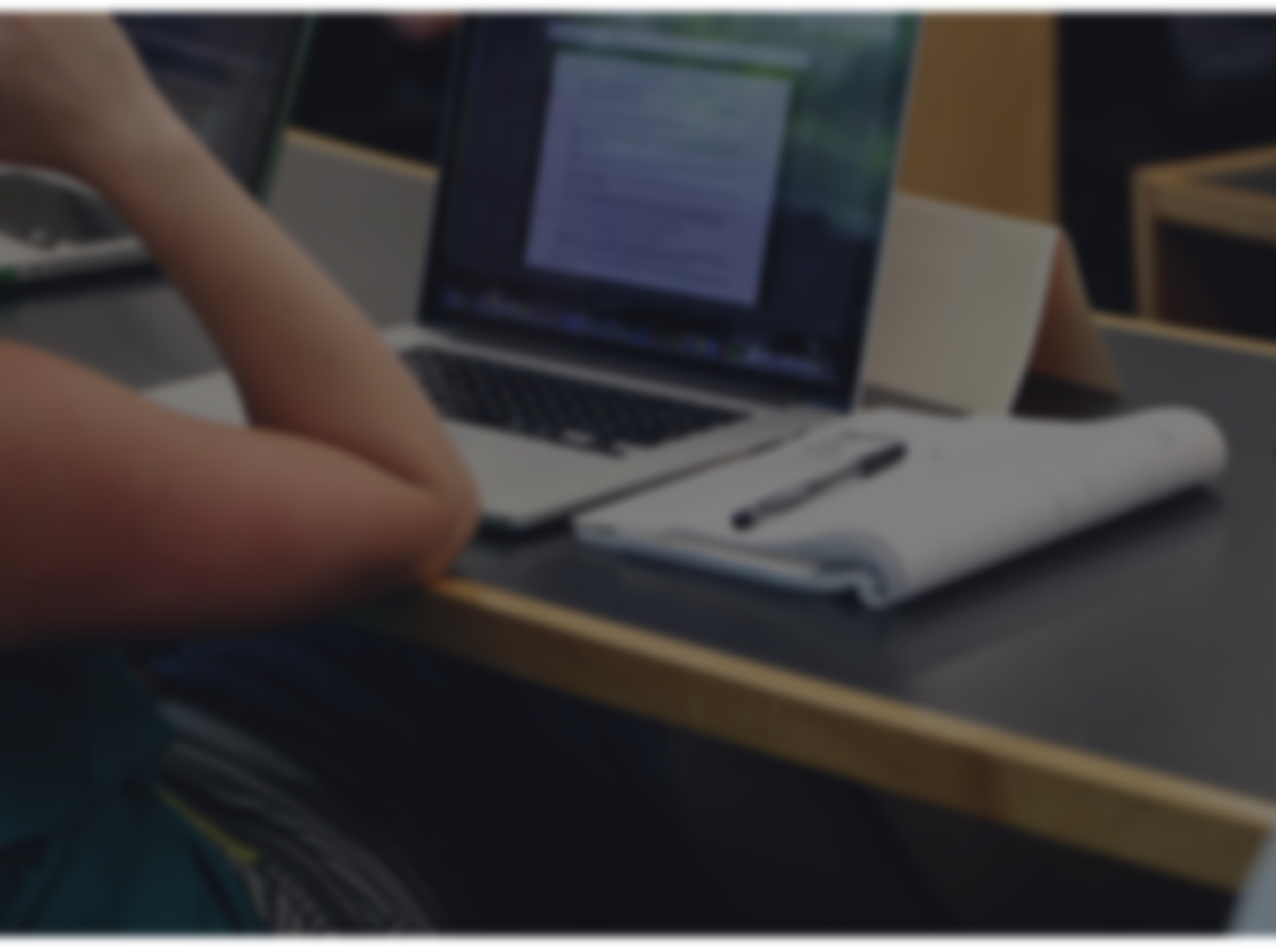
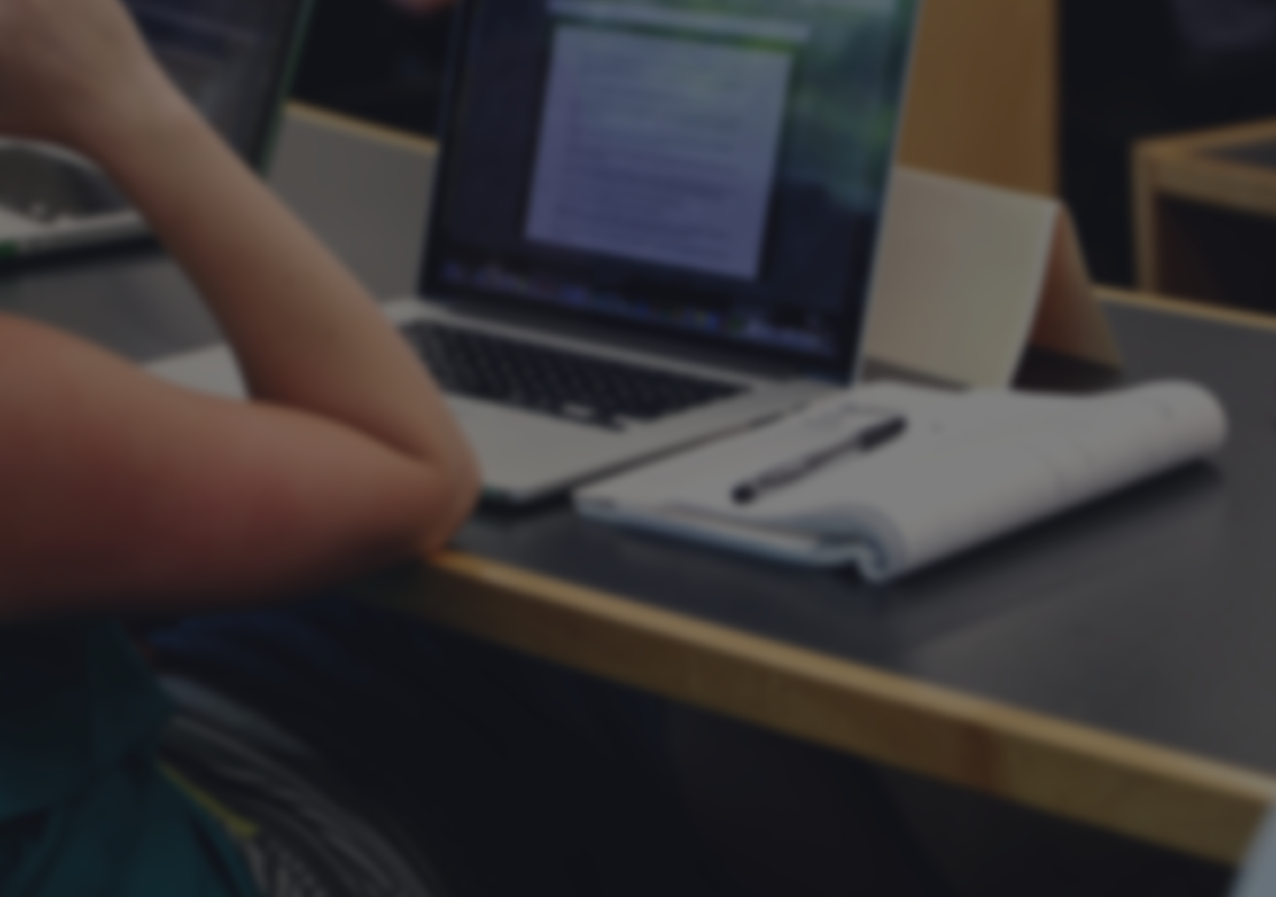
i1 wip

diff --git a/styles/index.min.css b/styles/index.min.css
@@ -1,1 +1,1 @@
-.index_1_intro{height:660px;background:url("../assets/images/glavnaya-hero-image.png") no-repeat;display:flex;flex-direction:column;align-items:center}.index_1_intro h1{margin-top:111px;color:#fff;font-size:48px;max-width:820px;text-align:center;line-height:59px;letter-spacing:1px}.index_1_intro p{max-width:898px;font-size:24px;color:#fff;text-align:center;line-height:34px;margin-top:13px}.index_1_intro div{margin-top:42px}.index_1_intro div .button{padding:25px 0px}@media (min-width: 768px){.index_1_intro{background:url("../assets/images/glavnaya-hero-image@2x.png") no-repeat}}@media (min-width: 992px){.index_1_intro{background:url("../assets/images/glavnaya-hero-image@3x.png") no-repeat;background-size:100%;background-position:-20px}}.index_2_numbers{height:623px}.index_2_numbers h1{font-size:36px;font-family:'Open Sans SemiBold';margin-top:130px;text-align:center}.index_2_numbers span{font-size:80px;color:#c02482;padding-left:100px;background-repeat:no-repeat;background-position:11px 16px;display:inline-block}.index_2_numbers .cert{background-image:url("../assets/images/certificate_icon.png")}.index_2_numbers .graduation{margin-top:110px;background-image:url("../assets/images/graduation_icon.png")}.index_2_numbers .presentation{background-image:url("../assets/images/presentation_icon.png")}.index_2_numbers .portrait{margin-top:110px;background-image:url("../assets/images/portrait_icon.png")}.index_2_numbers .column_1{display:flex;flex-direction:column}.index_2_numbers .column_2{display:flex;flex-direction:column}.index_2_numbers p{max-width:240px;font-size:24px;text-align:center;margin-left:30px;margin-top:26px}.index_2_numbers .i2_wrapper{margin-top:65px;padding:0px 198px 0px 273px;display:flex;flex-direction:row;justify-content:space-around}.index_3_experts{height:950px;display:flex;flex-direction:column;align-items:center;margin-bottom:28px}.index_3_experts h1{font-size:36px;font-family:'Open Sans SemiBold';margin-top:117px;text-align:center}.index_3_experts .button{display:block;width:188px}.index_3_experts .i3_experts_wrapper{display:flex;flex-direction:row}.index_3_experts .i3_experts_wrapper>div{display:flex;flex-direction:column;max-width:233px;margin:55px 0px 57px 0px;text-align:center}.index_3_experts .i3_experts_wrapper>div:nth-child(2){margin-left:115px;margin-right:115px}.index_3_experts .i3_experts_wrapper>div h2{font-size:18px;line-height:26px;font-weight:550;margin-bottom:10px}.index_3_experts .i3_experts_wrapper>div h2 span{font-size:24px;display:block;font-weight:600}.index_3_experts .i3_experts_wrapper>div img{margin-bottom:22px;height:233px;width:233px;border-radius:50%}.index_3_experts .i3_experts_wrapper>div p{line-height:20px}.index_3_experts .i3_video{position:relative}.index_3_experts .i3_play_background{opacity:0;position:absolute;top:0px;height:233px;width:233px;background-color:rgba(192,36,130,0.6);border-radius:50%;display:flex;flex-direction:column;text-align:center;cursor:pointer}.index_3_experts .i3_play_background:hover{opacity:1;cursor:pointer}.index_3_experts .i3_play_background p{display:block;margin:0px auto 0px auto;color:white;font-size:18px;font-family:'Open Sans', sans-serif;width:80px}.index_4_kbase{display:flex;flex-direction:column;align-items:center;color:#fff;height:890px;background-image:url("../assets/images/i4_background.png")}.index_4_kbase h1{font-size:36px;font-family:'Open Sans SemiBold';text-align:center;margin-top:95px}.index_4_kbase p{font-size:24px;text-align:center;max-width:890px;margin-top:54px;line-height:34px}.index_4_kbase .i4_icons{display:flex;flex-direction:row}.index_4_kbase .i4_icons p{margin-top:40px;font-size:18px}.index_4_kbase .i4_icons span{font-size:60px;background-repeat:no-repeat;padding-left:100px}.index_4_kbase .i4_icons div{margin-top:50px;padding:0px 60px 0px 60px}.index_4_kbase .i4_icons div:nth-child(2){border-left:1px solid #dfdfdf;border-right:1px solid #dfdfdf}.index_4_kbase .i4_icons .imac{background-image:url("../assets/images/imac_icon.png");background-position:-2px 12px}.index_4_kbase .i4_icons .headphones{background-image:url("../assets/images/headphones_icon.png");background-position:-6px -1px}.index_4_kbase .i4_icons .pie_charts{background-image:url("../assets/images/pie_charts_icon.png");background-position:-4px -6px}.index_4_kbase .button{padding:25px 0px;margin-top:40px}.index_5_student_feedback{display:flex;flex-direction:column;align-items:center}.index_5_student_feedback h1{letter-spacing:-0.7px;margin-top:135px;font-size:36px;font-family:'Open Sans SemiBold'}.index_5_student_feedback p{max-width:1067px;font-family:'Open Sans';font-style:italic;font-weight:300;font-size:36px;text-align:center;line-height:52px}.index_5_student_feedback .i5_signature{margin-top:10px;position:relative;padding-left:100px}.index_5_student_feedback .i5_signature span{letter-spacing:0.55px;font-size:18px;font-family:'Open Sans SemiBold';text-align:left}.index_5_student_feedback .i5_signature p{font-style:normal;font-family:'Open Sans Light';font-size:16px;text-align:left;line-height:6px}.index_5_student_feedback .i5_signature:after{position:absolute;left:-2px;top:-14px;display:block;content:' ';height:82px;width:82px;background-image:url("../assets/images/i5_portrait.png");background-color:yellow}.index_5_student_feedback .i5-slider{margin-top:70px;width:107px;height:17px;display:flex;justify-content:space-between}.index_5_student_feedback .i5-slider div{cursor:pointer;height:17px;width:17px;border-radius:50%;background-color:#dfdfdf}.index_5_student_feedback .i5-slider .active{background-color:#00acbc}.index_6_our_programs{display:flex;flex-direction:column;align-items:center;margin-bottom:135px}.index_6_our_programs h1{letter-spacing:-0.7px;margin-top:137px;font-size:36px;font-family:'Open Sans SemiBold'}.index_6_our_programs .i6_block{margin-top:60px;display:flex;flex-direction:row;justify-content:space-between}.index_6_our_programs .i6_block div:nth-child(1){padding-bottom:15px;line-height:31px;font-family:'Open Sans', sans-serif;font-size:24px;border-bottom:5px solid #c02482;width:auto;align-self:flex-start}.index_6_our_programs .i6_block ul{font-size:18px;margin-top:0px;margin-left:auto;width:65%}.index_6_our_programs .i6_block ul li{list-style:none}.index_6_our_programs .i6_block ul li span{display:inline-block;padding-left:35px;background-image:url("../assets/images/book_icon.png");background-repeat:no-repeat;background-position:0px;text-decoration:underline;margin-top:5px}.index_6_our_programs .i6_block ul li span:nth-child(1){margin-top:0px}.index_6_our_programs .i6_block ul li span a{margin-top:5px;display:inline-block;color:#c02482;text-decoration:underline}.index_6_our_programs .i6_block ul li span .new{position:relative}.index_6_our_programs .i6_block ul li span .new:after{content:"Новая программа";font-size:12px;color:#fff;text-transform:uppercase;text-align:center;font-family:'Open Sans SemiBold';letter-spacing:0.7px;line-height:21px;display:inline-block;margin-left:10px;right:1px;width:150px;height:20px;border-radius:10px;background-color:#00acbc}.index_6_our_programs .i6_block ul li p{margin-top:5px;margin-left:35px}.index_7_contact_form{padding:90px 200px 85px 200px;display:flex;flex-direction:row;background-image:url("../assets/images/i7-background.png")}.index_7_contact_form .i7_wrapper{display:flex}.index_7_contact_form .i7_wrapper div{max-width:500px;display:flex;flex-direction:column;flex-wrap:wrap}.index_7_contact_form .i7_wrapper div:nth-child(1){padding-right:40px;max-width:487px}.index_7_contact_form .i7_wrapper div:nth-child(1) h1{margin-top:-10px}.index_7_contact_form .i7_wrapper div:nth-child(1) p:nth-child(2){max-width:434px}.index_7_contact_form .i7_wrapper div:nth-child(2){padding-left:20px}.index_7_contact_form .i7_wrapper div:nth-child(2)>form{min-width:400px;margin-left:10%;margin-right:10%;display:flex;flex-direction:row;align-items:flex-end;flex-wrap:wrap;justify-content:space-between}.index_7_contact_form .i7_wrapper div:nth-child(2) input{outline:none;padding-left:33px;color:#4a4a4a;background-color:rgba(255,255,255,0.8);font-size:18px;display:inline-block;height:50px;border-radius:35px;width:377px;border:none;margin-bottom:20px}.index_7_contact_form .i7_wrapper div:nth-child(2) input[name='name']{width:157px}.index_7_contact_form .i7_wrapper div:nth-child(2) input[name='lastname']{width:157px}.index_7_contact_form .i7_wrapper div:nth-child(2) input[type='submit']{width:400px;height:70px;margin:0px;margin-top:40px;background-color:#00acbc;color:#fff}.index_7_contact_form .i7_wrapper div select{outline:none;padding-left:33px;color:#4a4a4a;background-color:rgba(255,255,255,0.8);font-size:18px;width:400px;border-radius:35px;border:none;height:50px}.index_7_contact_form h1{font-family:'Open Sans SemiBold';font-size:48px;color:#fff}.index_7_contact_form p{font-size:24px;color:#fff}.index_footer{display:flex;flex-direction:column;align-items:center}.index_footer img{margin-top:115px}.index_footer p{margin:10px 50px 10px 50px}.index_footer nav ul{list-style:none;display:flex;justify-content:space-between;max-width:800px;margin:0px 100px 0px 100px}.index_footer nav ul li{margin:50px 20px 50px 20px}.index_footer .social-networks{padding:0px;max-width:250px;margin:30px 100px 30px 100px;list-style:none;display:flex;justify-content:space-between}.index_footer .social-networks li{width:40px;height:40px;border-radius:50%;background-repeat:no-repeat;margin-right:20px;cursor:pointer}.index_footer .social-networks .social-vk{background-image:url("../assets/images/social-vk.png")}.index_footer .social-networks .social-fb{background-image:url("../assets/images/social-fb.png")}.index_footer .social-networks .social-twi{background-image:url("../assets/images/social-twi.png")}.index_footer .social-networks .social-inst{background-image:url("../assets/images/social-inst.png")}.index_footer .copyright{color:#dfdfdf;margin-bottom:40px}
+.index_1_intro{height:460px;background:url("../assets/images/glavnaya-hero-image.png") no-repeat;background-size:cover;background-position:center;display:flex;flex-direction:column;align-items:center}.index_1_intro h1{margin-top:55px;max-width:70%;color:#fff;font-size:25px;text-align:center}.index_1_intro p{max-width:70%;font-size:15px;color:#fff;text-align:center;margin-top:13px}.index_1_intro div{margin-top:20px}.index_1_intro div .button{padding:15px 0px}@media (min-width: 768px){.index_1_intro{height:660px;display:flex;flex-direction:column;align-items:center;background:url("../assets/images/glavnaya-hero-image@2x.png") no-repeat;background-size:cover;background-position:center}.index_1_intro h1{margin-top:70px;color:#fff;font-size:36px;max-width:820px;text-align:center;letter-spacing:1px}.index_1_intro p{max-width:898px;font-size:24px;color:#fff;text-align:center;line-height:34px;margin-top:13px}}@media (min-width: 992px){.index_1_intro{height:660px;display:flex;flex-direction:column;align-items:center;background:url("../assets/images/glavnaya-hero-image@3x.png") no-repeat;background-size:cover;background-position:center}.index_1_intro h1{margin-top:111px;color:#fff;font-size:48px;max-width:820px;text-align:center;line-height:59px;letter-spacing:1px}.index_1_intro p{max-width:898px;font-size:24px;color:#fff;text-align:center;line-height:34px;margin-top:13px}}.index_2_numbers{height:623px}.index_2_numbers h1{font-size:36px;font-family:'Open Sans SemiBold';margin-top:130px;text-align:center}.index_2_numbers span{font-size:80px;color:#c02482;padding-left:100px;background-repeat:no-repeat;background-position:11px 16px;display:inline-block}.index_2_numbers .cert{background-image:url("../assets/images/certificate_icon.png")}.index_2_numbers .graduation{margin-top:110px;background-image:url("../assets/images/graduation_icon.png")}.index_2_numbers .presentation{background-image:url("../assets/images/presentation_icon.png")}.index_2_numbers .portrait{margin-top:110px;background-image:url("../assets/images/portrait_icon.png")}.index_2_numbers .column_1{display:flex;flex-direction:column}.index_2_numbers .column_2{display:flex;flex-direction:column}.index_2_numbers p{max-width:240px;font-size:24px;text-align:center;margin-left:30px;margin-top:26px}.index_2_numbers .i2_wrapper{margin-top:65px;padding:0px 198px 0px 273px;display:flex;flex-direction:row;justify-content:space-around}.index_3_experts{height:950px;display:flex;flex-direction:column;align-items:center;margin-bottom:28px}.index_3_experts h1{font-size:36px;font-family:'Open Sans SemiBold';margin-top:117px;text-align:center}.index_3_experts .button{display:block;width:188px}.index_3_experts .i3_experts_wrapper{display:flex;flex-direction:row}.index_3_experts .i3_experts_wrapper>div{display:flex;flex-direction:column;max-width:233px;margin:55px 0px 57px 0px;text-align:center}.index_3_experts .i3_experts_wrapper>div:nth-child(2){margin-left:115px;margin-right:115px}.index_3_experts .i3_experts_wrapper>div h2{font-size:18px;line-height:26px;font-weight:550;margin-bottom:10px}.index_3_experts .i3_experts_wrapper>div h2 span{font-size:24px;display:block;font-weight:600}.index_3_experts .i3_experts_wrapper>div img{margin-bottom:22px;height:233px;width:233px;border-radius:50%}.index_3_experts .i3_experts_wrapper>div p{line-height:20px}.index_3_experts .i3_video{position:relative}.index_3_experts .i3_play_background{opacity:0;position:absolute;top:0px;height:233px;width:233px;background-color:rgba(192,36,130,0.6);border-radius:50%;display:flex;flex-direction:column;text-align:center;cursor:pointer}.index_3_experts .i3_play_background:hover{opacity:1;cursor:pointer}.index_3_experts .i3_play_background p{display:block;margin:0px auto 0px auto;color:white;font-size:18px;font-family:'Open Sans', sans-serif;width:80px}.index_4_kbase{display:flex;flex-direction:column;align-items:center;color:#fff;height:890px;background-image:url("../assets/images/i4_background.png")}.index_4_kbase h1{font-size:36px;font-family:'Open Sans SemiBold';text-align:center;margin-top:95px}.index_4_kbase p{font-size:24px;text-align:center;max-width:890px;margin-top:54px;line-height:34px}.index_4_kbase .i4_icons{display:flex;flex-direction:row}.index_4_kbase .i4_icons p{margin-top:40px;font-size:18px}.index_4_kbase .i4_icons span{font-size:60px;background-repeat:no-repeat;padding-left:100px}.index_4_kbase .i4_icons div{margin-top:50px;padding:0px 60px 0px 60px}.index_4_kbase .i4_icons div:nth-child(2){border-left:1px solid #dfdfdf;border-right:1px solid #dfdfdf}.index_4_kbase .i4_icons .imac{background-image:url("../assets/images/imac_icon.png");background-position:-2px 12px}.index_4_kbase .i4_icons .headphones{background-image:url("../assets/images/headphones_icon.png");background-position:-6px -1px}.index_4_kbase .i4_icons .pie_charts{background-image:url("../assets/images/pie_charts_icon.png");background-position:-4px -6px}.index_4_kbase .button{padding:25px 0px;margin-top:40px}.index_5_student_feedback{display:flex;flex-direction:column;align-items:center}.index_5_student_feedback h1{letter-spacing:-0.7px;margin-top:135px;font-size:36px;font-family:'Open Sans SemiBold'}.index_5_student_feedback p{max-width:1067px;font-family:'Open Sans';font-style:italic;font-weight:300;font-size:36px;text-align:center;line-height:52px}.index_5_student_feedback .i5_signature{margin-top:10px;position:relative;padding-left:100px}.index_5_student_feedback .i5_signature span{letter-spacing:0.55px;font-size:18px;font-family:'Open Sans SemiBold';text-align:left}.index_5_student_feedback .i5_signature p{font-style:normal;font-family:'Open Sans Light';font-size:16px;text-align:left;line-height:6px}.index_5_student_feedback .i5_signature:after{position:absolute;left:-2px;top:-14px;display:block;content:' ';height:82px;width:82px;background-image:url("../assets/images/i5_portrait.png");background-color:yellow}.index_5_student_feedback .i5-slider{margin-top:70px;width:107px;height:17px;display:flex;justify-content:space-between}.index_5_student_feedback .i5-slider div{cursor:pointer;height:17px;width:17px;border-radius:50%;background-color:#dfdfdf}.index_5_student_feedback .i5-slider .active{background-color:#00acbc}.index_6_our_programs{display:flex;flex-direction:column;align-items:center;margin-bottom:135px}.index_6_our_programs h1{letter-spacing:-0.7px;margin-top:137px;font-size:36px;font-family:'Open Sans SemiBold'}.index_6_our_programs .i6_block{margin-top:60px;display:flex;flex-direction:row;justify-content:space-between}.index_6_our_programs .i6_block div:nth-child(1){padding-bottom:15px;line-height:31px;font-family:'Open Sans', sans-serif;font-size:24px;border-bottom:5px solid #c02482;width:auto;align-self:flex-start}.index_6_our_programs .i6_block ul{font-size:18px;margin-top:0px;margin-left:auto;width:65%}.index_6_our_programs .i6_block ul li{list-style:none}.index_6_our_programs .i6_block ul li span{display:inline-block;padding-left:35px;background-image:url("../assets/images/book_icon.png");background-repeat:no-repeat;background-position:0px;text-decoration:underline;margin-top:5px}.index_6_our_programs .i6_block ul li span:nth-child(1){margin-top:0px}.index_6_our_programs .i6_block ul li span a{margin-top:5px;display:inline-block;color:#c02482;text-decoration:underline}.index_6_our_programs .i6_block ul li span .new{position:relative}.index_6_our_programs .i6_block ul li span .new:after{content:"Новая программа";font-size:12px;color:#fff;text-transform:uppercase;text-align:center;font-family:'Open Sans SemiBold';letter-spacing:0.7px;line-height:21px;display:inline-block;margin-left:10px;right:1px;width:150px;height:20px;border-radius:10px;background-color:#00acbc}.index_6_our_programs .i6_block ul li p{margin-top:5px;margin-left:35px}.index_7_contact_form{padding:90px 200px 85px 200px;display:flex;flex-direction:row;background-image:url("../assets/images/i7-background.png")}.index_7_contact_form .i7_wrapper{display:flex}.index_7_contact_form .i7_wrapper div{max-width:500px;display:flex;flex-direction:column;flex-wrap:wrap}.index_7_contact_form .i7_wrapper div:nth-child(1){padding-right:40px;max-width:487px}.index_7_contact_form .i7_wrapper div:nth-child(1) h1{margin-top:-10px}.index_7_contact_form .i7_wrapper div:nth-child(1) p:nth-child(2){max-width:434px}.index_7_contact_form .i7_wrapper div:nth-child(2){padding-left:20px}.index_7_contact_form .i7_wrapper div:nth-child(2)>form{min-width:400px;margin-left:10%;margin-right:10%;display:flex;flex-direction:row;align-items:flex-end;flex-wrap:wrap;justify-content:space-between}.index_7_contact_form .i7_wrapper div:nth-child(2) input{outline:none;padding-left:33px;color:#4a4a4a;background-color:rgba(255,255,255,0.8);font-size:18px;display:inline-block;height:50px;border-radius:35px;width:377px;border:none;margin-bottom:20px}.index_7_contact_form .i7_wrapper div:nth-child(2) input[name='name']{width:157px}.index_7_contact_form .i7_wrapper div:nth-child(2) input[name='lastname']{width:157px}.index_7_contact_form .i7_wrapper div:nth-child(2) input[type='submit']{width:400px;height:70px;margin:0px;margin-top:40px;background-color:#00acbc;color:#fff}.index_7_contact_form .i7_wrapper div select{outline:none;padding-left:33px;color:#4a4a4a;background-color:rgba(255,255,255,0.8);font-size:18px;width:400px;border-radius:35px;border:none;height:50px}.index_7_contact_form h1{font-family:'Open Sans SemiBold';font-size:48px;color:#fff}.index_7_contact_form p{font-size:24px;color:#fff}.index_footer{display:flex;flex-direction:column;align-items:center}.index_footer img{margin-top:115px}.index_footer p{margin:10px 50px 10px 50px}.index_footer nav ul{list-style:none;display:flex;justify-content:space-between;max-width:800px;margin:0px 100px 0px 100px}.index_footer nav ul li{margin:50px 20px 50px 20px}.index_footer .social-networks{padding:0px;max-width:250px;margin:30px 100px 30px 100px;list-style:none;display:flex;justify-content:space-between}.index_footer .social-networks li{width:40px;height:40px;border-radius:50%;background-repeat:no-repeat;margin-right:20px;cursor:pointer}.index_footer .social-networks .social-vk{background-image:url("../assets/images/social-vk.png")}.index_footer .social-networks .social-fb{background-image:url("../assets/images/social-fb.png")}.index_footer .social-networks .social-twi{background-image:url("../assets/images/social-twi.png")}.index_footer .social-networks .social-inst{background-image:url("../assets/images/social-inst.png")}.index_footer .copyright{color:#dfdfdf;margin-bottom:40px}

diff --git a/styles/base.min.css b/styles/base.min.css
@@ -1,1 +1,1 @@
-html{box-sizing:border-box}*,*:before,*:after{box-sizing:inherit}.button{margin:auto;display:block;font-size:18px;font-weight:bold;color:#fff;width:290px;text-align:center;max-height:70px;border-radius:35px;background-color:#00acbc;letter-spacing:1px;padding:25px 40px;-ms-filter:"progid:DXImageTransform.Microsoft.Shadow(Strength=15, Direction=0, Color=#000000)";-moz-box-shadow:0 5px 15px rgba(0,0,0,0.3);-webkit-box-shadow:0 5px 15px rgba(0,0,0,0.3);box-shadow:0 5px 15px rgba(0,0,0,0.3);filter:progid:DXImageTransform.Microsoft.Shadow(Strength=15, Direction=135, Color=#000000)}.button:hover{position:relative;top:1px;text-decoration:none;-ms-filter:"progid:DXImageTransform.Microsoft.Shadow(Strength=15, Direction=0, Color=#000000)";-moz-box-shadow:0 5px 15px rgba(0,0,0,0.5);-webkit-box-shadow:0 5px 15px rgba(0,0,0,0.5);box-shadow:0 5px 15px rgba(0,0,0,0.5);filter:progid:DXImageTransform.Microsoft.Shadow(Strength=15, Direction=135, Color=#000000)}.play_button{width:50px;height:50px;background:transparent;border:none;border-radius:100%;margin:auto;margin-top:50px;margin-bottom:30px;cursor:pointer}.play_button:focus{outline:0}.play_button:after{content:'';display:inline-block;position:relative;top:1px;left:3px;border-style:solid;border-width:20px 0 20px 20px;border-color:transparent transparent transparent white}body{font-family:'Open Sans', sans-serif;margin:auto}a{text-decoration:none;color:black}a:hover{text-decoration:underline}nav{height:140px;padding-top:25px;line-height:87px;padding-bottom:15px;border-top:none;font-weight:bold;font-size:16px;background-color:#fff}nav ul{max-width:1090px;padding:0;margin:0 auto;list-style:none;display:none;justify-content:space-between}nav img{position:absolute;left:6.5%;top:30px}nav .nav-login{padding:15px 35px;top:19%;right:100px;background:#c02482;border-radius:25px;color:#fff;margin:auto}nav .menu-button{padding:5px 11px;position:absolute;font-size:30px;font-weight:bold;right:5%;top:5%;line-height:5px;height:35px;width:50px;border-radius:8px;border:1px solid #4a4a4a;cursor:pointer}nav .menu-button:hover{background-color:#dfdfdf}@media (min-width: 576px){nav{height:140px;padding-top:25px;line-height:87px;padding-bottom:15px;border-top:none;font-weight:bold;font-size:14px;background-color:#fff}nav ul{max-width:1090px;padding:0;margin-right:2%;margin-left:23%;list-style:none;display:none;justify-content:space-between}nav .nav-login{padding:10px 25px;top:19%;right:100px;background:#c02482;border-radius:25px;color:#fff;margin:auto}nav img{position:absolute;left:3.5%;top:30px}}@media (min-width: 768px){nav{height:140px;padding-top:25px;line-height:87px;padding-bottom:15px;border-top:none;font-weight:bold;font-size:14px;background-color:#fff}nav ul{max-width:1090px;padding:0;margin-right:2%;margin-left:23%;list-style:none;display:flex;justify-content:space-between}nav .nav-login{padding:10px 25px;top:19%;right:100px;background:#c02482;border-radius:25px;color:#fff;margin:auto}nav img{position:absolute;left:1.5%;top:30px}.menu-button{display:none}}@media (min-width: 992px){nav{position:relative;height:140px;padding-top:25px;line-height:87px;padding-bottom:15px;border-top:none;font-weight:bold;font-size:16px;background-color:#fff;white-space:nowrap}nav ul{max-width:1100px;padding:0;margin-right:7%;margin-left:26%;list-style:none;display:flex;justify-content:space-between}nav ul li{white-space:nowrap}nav ul li:last-child{margin-left:56px}nav .nav-login{padding:15px 35px;top:19%;right:100px;background:#c02482;border-radius:25px;color:#fff;margin:auto}nav img{position:absolute;left:10%;top:30px}.menu-button{display:none}}
+html{box-sizing:border-box}*,*:before,*:after{box-sizing:inherit}.button{margin:auto;display:block;font-size:18px;font-weight:bold;color:#fff;width:290px;text-align:center;max-height:70px;border-radius:35px;background-color:#00acbc;letter-spacing:1px;padding:25px 40px;-ms-filter:"progid:DXImageTransform.Microsoft.Shadow(Strength=15, Direction=0, Color=#000000)";-moz-box-shadow:0 5px 15px rgba(0,0,0,0.3);-webkit-box-shadow:0 5px 15px rgba(0,0,0,0.3);box-shadow:0 5px 15px rgba(0,0,0,0.3);filter:progid:DXImageTransform.Microsoft.Shadow(Strength=15, Direction=135, Color=#000000)}.button:hover{position:relative;top:1px;text-decoration:none;-ms-filter:"progid:DXImageTransform.Microsoft.Shadow(Strength=15, Direction=0, Color=#000000)";-moz-box-shadow:0 5px 15px rgba(0,0,0,0.5);-webkit-box-shadow:0 5px 15px rgba(0,0,0,0.5);box-shadow:0 5px 15px rgba(0,0,0,0.5);filter:progid:DXImageTransform.Microsoft.Shadow(Strength=15, Direction=135, Color=#000000)}.play_button{width:50px;height:50px;background:transparent;border:none;border-radius:100%;margin:auto;margin-top:50px;margin-bottom:30px;cursor:pointer}.play_button:focus{outline:0}.play_button:after{content:'';display:inline-block;position:relative;top:1px;left:3px;border-style:solid;border-width:20px 0 20px 20px;border-color:transparent transparent transparent white}body{font-family:'Open Sans', sans-serif;margin:auto}a{text-decoration:none;color:black}a:hover{text-decoration:underline}nav{height:140px;padding-top:25px;line-height:87px;padding-bottom:15px;border-top:none;font-weight:bold;font-size:16px;background-color:#fff}nav ul{max-width:1090px;padding:0;margin:0 auto;list-style:none;display:none;justify-content:space-between}nav img{position:absolute;left:6.5%;top:30px}nav .nav-login{padding:15px 35px;top:19%;right:100px;background:#c02482;border-radius:25px;color:#fff;margin:auto}nav .menu-button{padding:5px 11px;position:absolute;font-size:30px;font-weight:bold;right:5%;top:5%;line-height:5px;height:35px;width:50px;border-radius:8px;border:1px solid #4a4a4a;cursor:pointer}nav .menu-button:hover{background-color:#dfdfdf}@media (min-width: 576px){nav{height:140px;padding-top:25px;line-height:87px;padding-bottom:15px;border-top:none;font-weight:bold;font-size:14px;background-color:#fff}nav ul{max-width:1090px;padding:0;margin-right:2%;margin-left:23%;list-style:none;display:none;justify-content:space-between}nav .nav-login{padding:10px 25px;top:19%;right:100px;background:#c02482;border-radius:25px;color:#fff;margin:auto}nav img{position:absolute;left:3.5%;top:30px}}@media (min-width: 768px){nav{height:140px;padding-top:25px;line-height:87px;padding-bottom:15px;border-top:none;font-weight:bold;font-size:14px;background-color:#fff}nav ul{max-width:1090px;padding:0;margin-right:2%;margin-left:23%;list-style:none;display:flex;justify-content:space-between}nav .nav-login{padding:10px 25px;background:#c02482;border-radius:25px;color:#fff;margin:auto}nav img{position:absolute;left:1.5%;top:30px}.menu-button{display:none}}@media (min-width: 992px){nav{position:relative;height:140px;padding-top:25px;line-height:87px;padding-bottom:15px;border-top:none;font-weight:bold;font-size:16px;background-color:#fff;white-space:nowrap}nav ul{max-width:1100px;padding:0;margin-right:7%;margin-left:26%;list-style:none;display:flex;justify-content:space-between}nav ul li{margin-left:10px;white-space:nowrap}nav ul li:last-child{margin-left:56px}nav .nav-login{padding:15px 35px;top:19%;right:100px;background:#c02482;border-radius:25px;color:#fff;margin:auto}nav img{position:absolute;left:9%;top:30px}.menu-button{display:none}}

diff --git a/styles/index.css b/styles/index.css
@@ -1,50 +1,92 @@
 @charset "UTF-8";
 .index_1_intro {
-  height: 660px;
+  height: 460px;
   background: url("../assets/images/glavnaya-hero-image.png") no-repeat;
+  background-size: cover;
+  background-position: center;
   display: flex;
   flex-direction: column;
   align-items: center;
 }
 
 .index_1_intro h1 {
-  margin-top: 111px;
+  margin-top: 55px;
+  max-width: 70%;
   color: #ffffff;
-  font-size: 48px;
-  max-width: 820px;
+  font-size: 25px;
   text-align: center;
-  line-height: 59px;
-  letter-spacing: 1px;
 }
 
 .index_1_intro p {
-  max-width: 898px;
-  font-size: 24px;
+  max-width: 70%;
+  font-size: 15px;
   color: #ffffff;
   text-align: center;
-  line-height: 34px;
   margin-top: 13px;
 }
 
 .index_1_intro div {
-  margin-top: 42px;
+  margin-top: 20px;
 }
 
 .index_1_intro div .button {
-  padding: 25px 0px;
+  padding: 15px 0px;
 }
 
 @media (min-width: 768px) {
   .index_1_intro {
+    height: 660px;
+    display: flex;
+    flex-direction: column;
+    align-items: center;
     background: url("../assets/images/glavnaya-hero-image@2x.png") no-repeat;
+    background-size: cover;
+    background-position: center;
+  }
+  .index_1_intro h1 {
+    margin-top: 70px;
+    color: #ffffff;
+    font-size: 36px;
+    max-width: 820px;
+    text-align: center;
+    letter-spacing: 1px;
+  }
+  .index_1_intro p {
+    max-width: 898px;
+    font-size: 24px;
+    color: #ffffff;
+    text-align: center;
+    line-height: 34px;
+    margin-top: 13px;
   }
 }
 
 @media (min-width: 992px) {
   .index_1_intro {
+    height: 660px;
+    display: flex;
+    flex-direction: column;
+    align-items: center;
     background: url("../assets/images/glavnaya-hero-image@3x.png") no-repeat;
-    background-size: 100%;
-    background-position: -20px;
+    background-size: cover;
+    background-position: center;
+  }
+  .index_1_intro h1 {
+    margin-top: 111px;
+    color: #ffffff;
+    font-size: 48px;
+    max-width: 820px;
+    text-align: center;
+    line-height: 59px;
+    letter-spacing: 1px;
+  }
+  .index_1_intro p {
+    max-width: 898px;
+    font-size: 24px;
+    color: #ffffff;
+    text-align: center;
+    line-height: 34px;
+    margin-top: 13px;
   }
 }
 

diff --git a/styles/index.sass b/styles/index.sass
@@ -1,43 +1,86 @@
 @import variables.sass
 
-
+//
 // first block of index styles
+//
 .index_1_intro
-  height: 660px
+  height: 460px
   background: url('../assets/images/glavnaya-hero-image.png') no-repeat
+  background-size: cover
+  background-position: center
   display: flex
   flex-direction: column
   align-items: center
+  max
   h1
-    margin-top: 111px
+    margin-top: 55px
+    max-width: 70%
     color: $white
-    font-size: 48px
-    max-width: 820px
+    font-size: 25px
     text-align: center
-    line-height: 59px
-    letter-spacing: 1px
   p
-    max-width: 898px
-    font-size: 24px
+    max-width: 70%
+    font-size: 15px
     color: $white
     text-align: center
-    line-height: 34px
     margin-top: 13px
   div
-    margin-top: 42px
+    margin-top: 20px
     .button
-      padding: 25px 0px
+      padding: 15px 0px
 
 @media (min-width: 768px)
   .index_1_intro
+    height: 660px
+    display: flex
+    flex-direction: column
+    align-items: center
     background: url('../assets/images/glavnaya-hero-image@2x.png') no-repeat
+    background-size: cover
+    background-position: center
+    h1
+      margin-top: 70px
+      color: $white
+      font-size: 36px
+      max-width: 820px
+      text-align: center
+      letter-spacing: 1px
+    p
+      max-width: 898px
+      font-size: 24px
+      color: $white
+      text-align: center
+      line-height: 34px
+      margin-top: 13px
 
 @media (min-width: 992px)
   .index_1_intro
+    height: 660px
+    display: flex
+    flex-direction: column
+    align-items: center
     background: url('../assets/images/glavnaya-hero-image@3x.png') no-repeat
-    background-size: 100%
-    background-position: -20px
+    background-size: cover
+    background-position: center
+    h1
+      margin-top: 111px
+      color: $white
+      font-size: 48px
+      max-width: 820px
+      text-align: center
+      line-height: 59px
+      letter-spacing: 1px
+    p
+      max-width: 898px
+      font-size: 24px
+      color: $white
+      text-align: center
+      line-height: 34px
+      margin-top: 13px
 
+//
+// index 2 section, with all the flashy data and stuff
+//
 .index_2_numbers
   height: 623px
   h1

diff --git a/styles/base.sass b/styles/base.sass
@@ -170,8 +170,6 @@ nav
 
     .nav-login
       padding: 10px 25px
-      top: 19%
-      right: 100px
       background: #c02482
       border-radius: 25px
       color: $white
@@ -206,6 +204,7 @@ nav
       display: flex
       justify-content: space-between
       li
+        margin-left: 10px
         white-space: nowrap
       li:last-child
         margin-left: 56px
@@ -218,10 +217,9 @@ nav
       border-radius: 25px
       color: $white
       margin: auto
-
     img
       position: absolute
-      left: 10%
+      left: 9%
       top: 30px
 
   .menu-button

diff --git a/styles/base.css b/styles/base.css
@@ -201,8 +201,6 @@ nav .menu-button:hover {
   }
   nav .nav-login {
     padding: 10px 25px;
-    top: 19%;
-    right: 100px;
     background: #c02482;
     border-radius: 25px;
     color: #ffffff;
@@ -241,6 +239,7 @@ nav .menu-button:hover {
     justify-content: space-between;
   }
   nav ul li {
+    margin-left: 10px;
     white-space: nowrap;
   }
   nav ul li:last-child {
@@ -257,7 +256,7 @@ nav .menu-button:hover {
   }
   nav img {
     position: absolute;
-    left: 10%;
+    left: 9%;
     top: 30px;
   }
   .menu-button {
